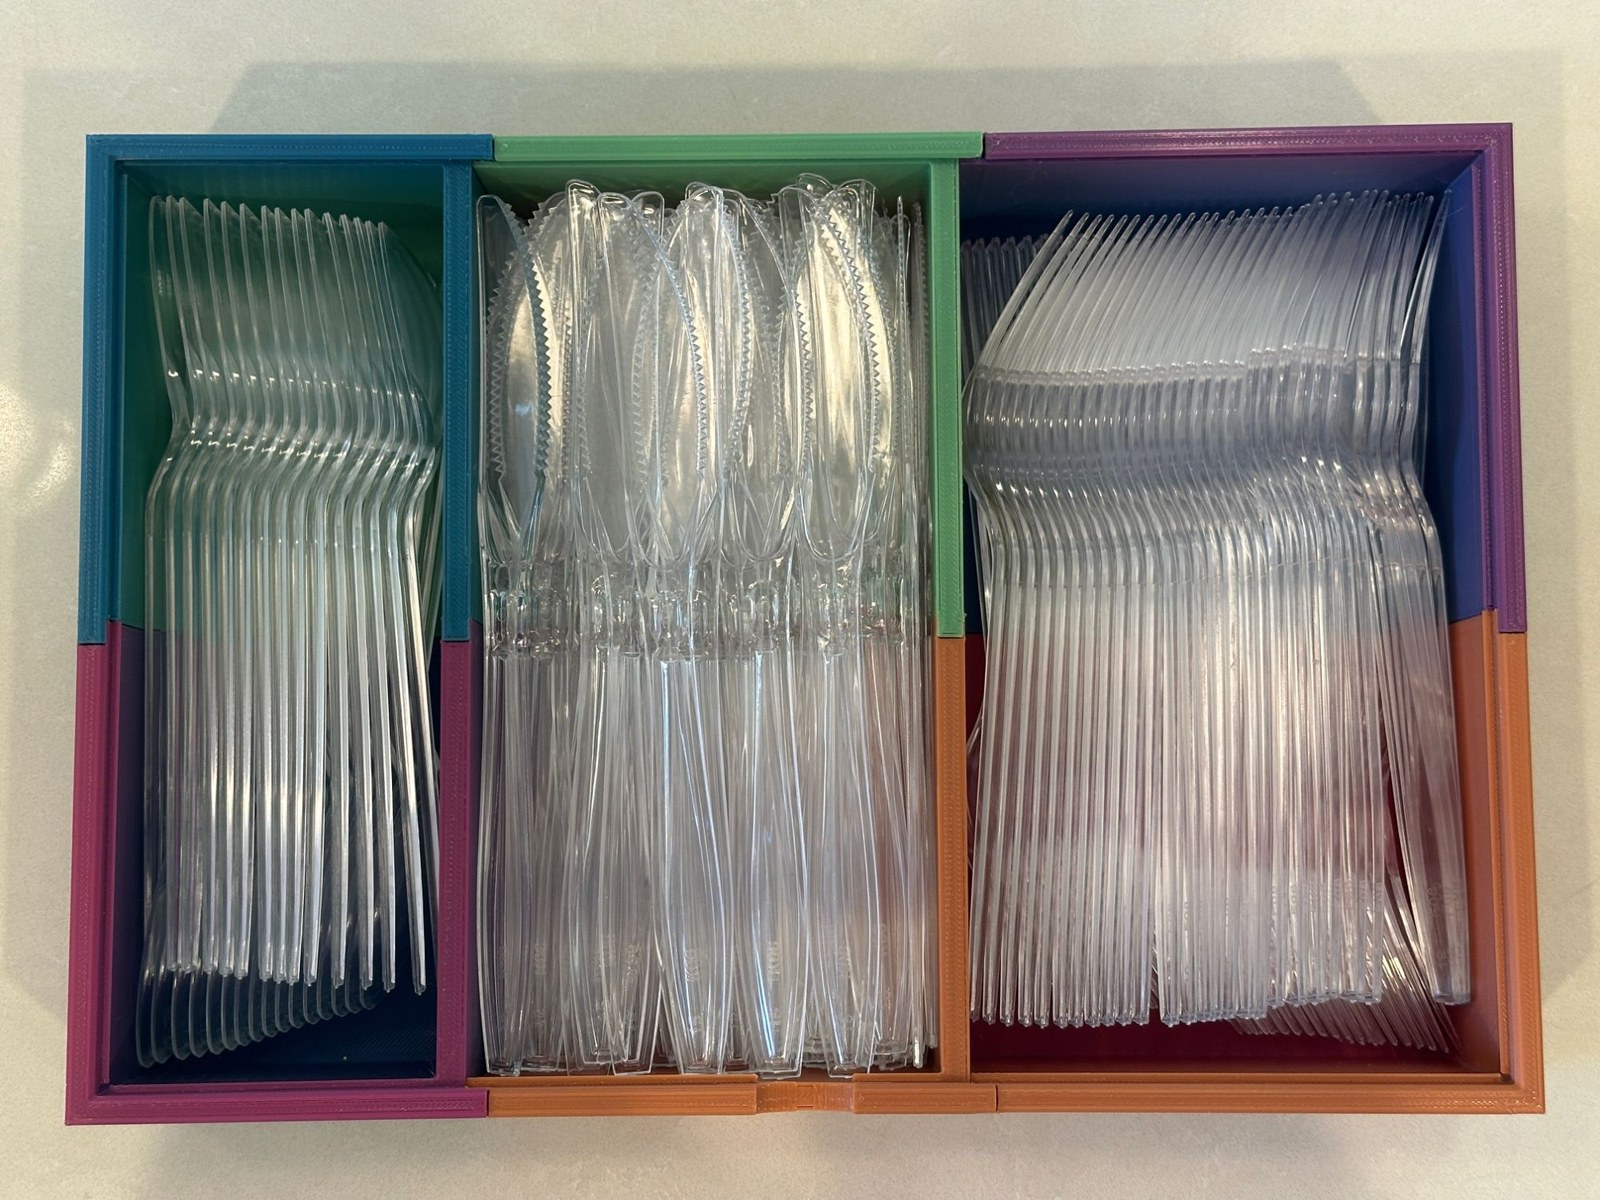
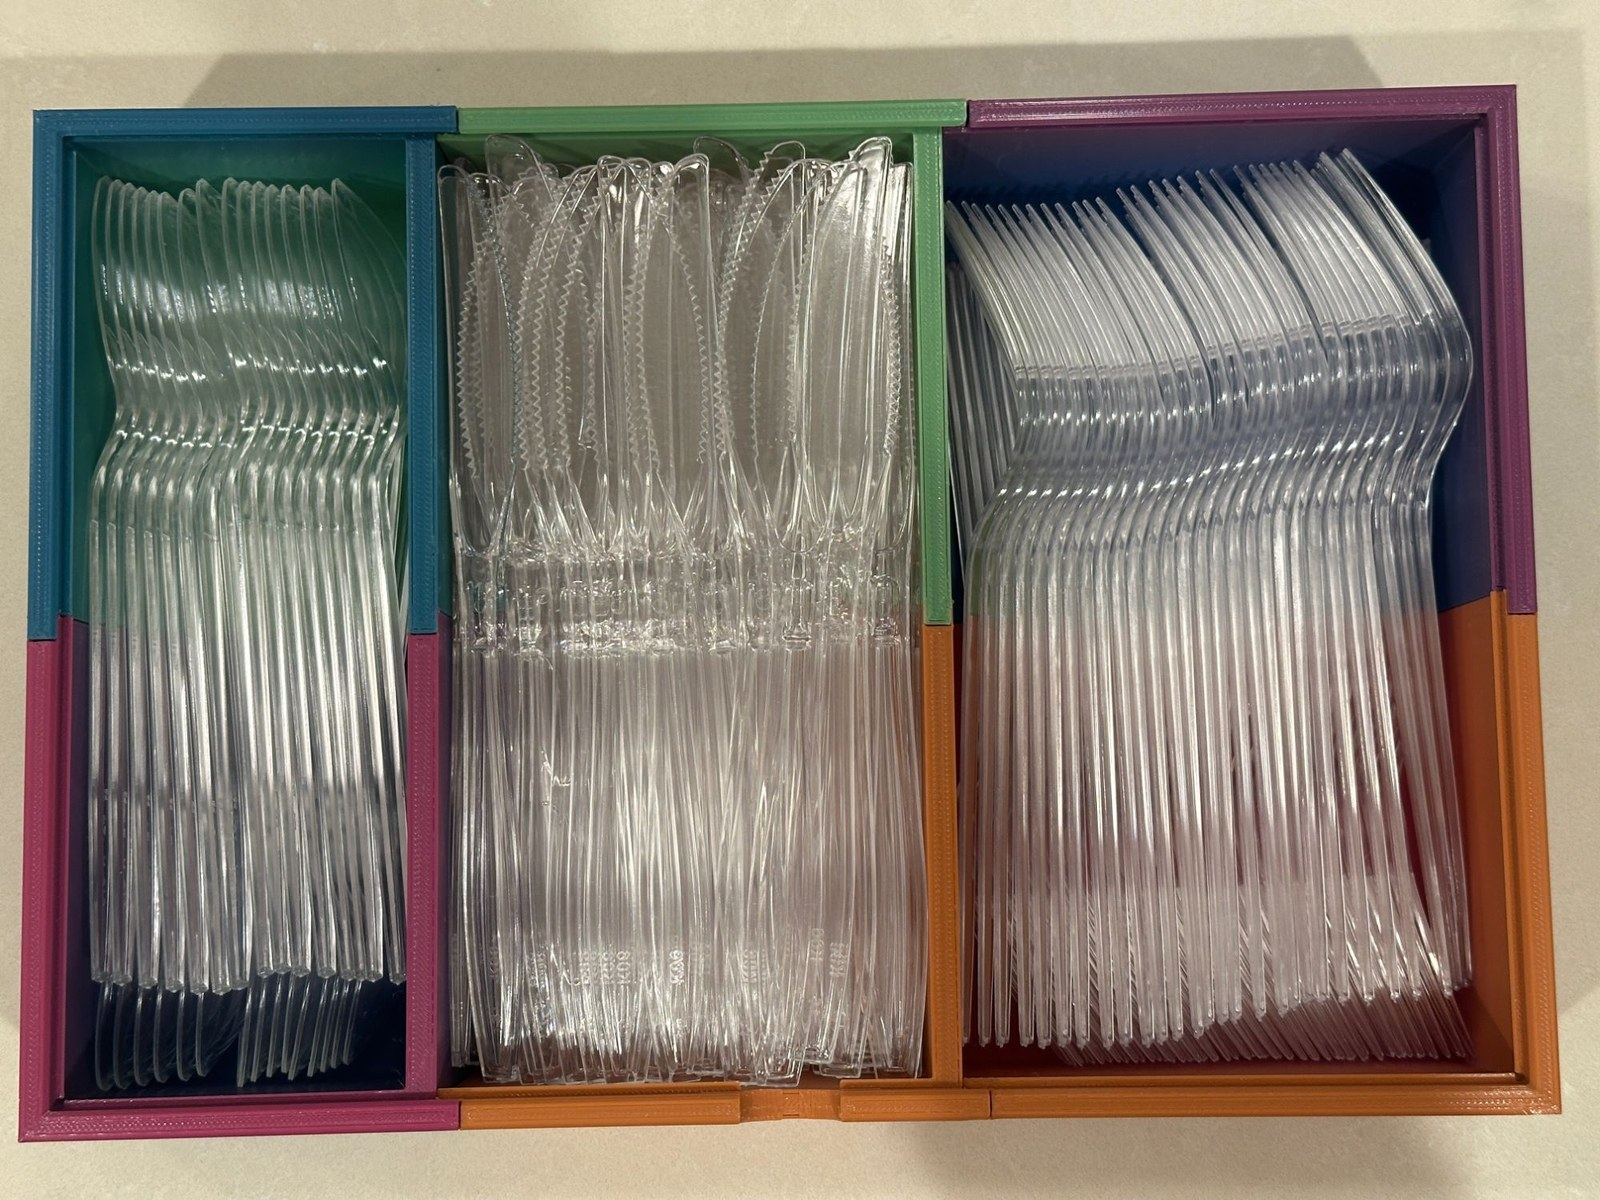
Use the retaken final-layout photo; add print settings and v25
- photos/final-layout.jpg retaken with the top rows pointing the same
  way; README hero / social preview rebuilt from it, subtitle now says
  "120 mm 3D printer".
- Build log: v25 (as he thinks), default wall thickness and infill with
  his hedge, and that 48 knives were counted but the columns were a
  pain to fill.
- CLAUDE.md: answered items removed; nozzle and row-direction questions
  added.

Claude-Session: https://claude.ai/code/session_012aPeyjSX6YEt2x8DFvdxWD

diff --git a/tools/make_social_preview.py b/tools/make_social_preview.py
@@ -42,7 +42,7 @@ def main():
     ap.add_argument('render'); ap.add_argument('photo'); ap.add_argument('out')
     ap.add_argument('--crop', type=int, nargs=4, metavar=('L', 'T', 'R', 'B'))
     ap.add_argument('--title', default='Cutlery Box')
-    ap.add_argument('--subtitle', default='Designed in OpenSCAD with Claude, printed in six pieces on a 120 mm printer')
+    ap.add_argument('--subtitle', default='Designed in OpenSCAD with Claude, printed in six pieces on a 120 mm 3D printer')
     a = ap.parse_args()
 
     bg = (255, 255, 255)

diff --git a/.claude/CLAUDE.md b/.claude/CLAUDE.md
@@ -39,9 +39,9 @@ A three-compartment box for disposable knives, forks and spoons. It was designed
 
 - **Why:** disposable cutlery comes in cardboard boxes that fall apart or plastic ones that crack into sharp pieces, and none can be washed. Organizers for real cutlery hold too few pieces and don't lock. His taped DIY dividers were flimsy and unhygienic. He never had time to design it in CAD; with Claude it was fast and fun. His brother had been looking for one too, so he printed a second.
 - **Sizing:** measured cutlery plus published sizes. A particularly long knife from another brand doesn't fit (it touches both ends); their usual brand fits.
-- **In use:** the designed layout, three face-up columns per compartment (knives narrowest, forks middle, spoons widest), held 36 spoons, 36 forks, 48 knives (120) (`photos/designed-layout.jpg`). The stacks were unstable even standing still and fell when the box was moved; knives stayed stacked only if placed with great care. He checked that three fit side by side on every printed part but never tried stacking until the box was built. An intermediate step swapped spoons and knives, still face up (`photos/finished-loaded.jpg`, no longer used in the docs but kept in `photos/` and the release zip). The final layout (`photos/final-layout.jpg`), inspired by the packaging: forks (most used) on edge in two rows in the widest, 56; spoons (least used) on edge in two rows in the narrowest, 48; knives "loosely packed" in the middle, 80 (184 total, +53%). Knives are hard to stand on edge by hand but don't tangle and are easy to grab; reaching into the narrowest compartment for them was awkward, while spoons on edge are easy to grab there. Trade-offs: columns look nicer, and rows face opposite ways (spoon heads down in one row, up in the other), so fingers can touch the bottom row's heads; they don't mind much, mostly family use it.
+- **In use:** the designed layout, three face-up columns per compartment (knives narrowest, forks middle, spoons widest), held 36 spoons, 36 forks, 48 knives (120); he counted 48 knives in the box, though filling the columns was a pain (`photos/designed-layout.jpg`). The stacks were unstable even standing still and fell when the box was moved; knives stayed stacked only if placed with great care. He checked that three fit side by side on every printed part but never tried stacking until the box was built. An intermediate step swapped spoons and knives, still face up (`photos/finished-loaded.jpg`, no longer used in the docs but kept in `photos/` and the release zip). The final layout (`photos/final-layout.jpg`, retaken with the top rows pointing the same way), inspired by the packaging: forks (most used) on edge in two rows in the widest, 56; spoons (least used) on edge in two rows in the narrowest, 48; knives "loosely packed" in the middle, 80 (184 total, +53%). Knives are hard to stand on edge by hand but don't tangle and are easy to grab; reaching into the narrowest compartment for them was awkward, while spoons on edge are easy to grab there. Trade-offs: columns look nicer, and rows face opposite ways (spoon heads down in one row, up in the other), so fingers can touch the bottom row's heads; they don't mind much, mostly family use it.
 - **First test print:** `photos/process/first-print-knives.jpg` shows the June 20 knife-compartment slice fitting only two knives, as the build log says. In November he was surprised only two fit (he was sure he'd planned three columns and wondered if his current knives are wider): that was the first print, before the resize. The final box fits three across (`photos/designed-layout.jpg`).
-- **Printing:** fine setting, 0.12 mm layers, for a more accurate chamfer. Filament: iSANMATE PLA+ Rainbow colour-change, 1.75 mm. About 6–8 h per piece, from memory. The printer is a kids' entry printer; describe its imprecision as observations, not as a fault, alongside the fact that the box came out reliable and good-looking (visitors ask where it's from).
+- **Printing:** v25, as far as he remembers (the last version). Fine setting, 0.12 mm layers, for a more accurate chamfer. Walls and infill: he thinks default 2 walls and 15%, maybe 3 and 20%; the build log says so with that hedge. Filament: iSANMATE PLA+ Rainbow colour-change, 1.75 mm. About 6–8 h per piece, from memory. The printer is a kids' entry printer; describe its imprecision as observations, not as a fault, alongside the fact that the box came out reliable and good-looking (visitors ask where it's from).
 - **Lid:** never made. Food-safe sheets he found were too expensive or not good enough, and he hasn't needed one. He wants suggestions: affordable, food-safe, good surface finish, about 196.5 × 290 × 2 mm, rounded edges. The hinge was designed as a half-round channel plus an angled opening, so the lid can swing up and also lift out (for serving).
 - **Finishing:** a Dremel removed high spots that kept pieces from seating; plastic glue makes the box rigid and stops it wobbling at rest.
 - **Next version:** try text-to-CAD tools and compare against this plain-Claude baseline (he didn't know they existed in June 2026).
@@ -54,12 +54,12 @@ Public on GitHub with description and topics set. Release [`v1.0`](https://githu
 
 Things only the owner can provide:
 - **Three-knives test photo:** he's sending one of three knives fitting side by side in a partly built box. It could go in the build log next to the "three side by side, but never stacked" lesson in Living with it.
-- **Knife count in columns:** the table says the designed columns held 48 knives, but the knife stacks kept falling. Ask whether 48 was counted in the box (with new knives, placed carefully) or is the design capacity, and fix the table note if needed.
+- **Rows facing opposite ways:** the build log says the two rows face opposite ways (spoon heads down in one, up in the other), from his note. In the retaken `photos/final-layout.jpg` every visible head is at the top. Ask whether "rows" means layers under the top one, and reword the hygiene paragraph if needed.
 - **Unfinished sentence:** his note on the trade-offs of packing on edge ended with "But there's something". Ask what he meant to add.
-- **Retake the final-layout photo:** in `photos/final-layout.jpg` the top rows of spoons and forks point in opposite directions; he'll retake it with them all pointing the same way. Then replace `photos/final-layout.jpg` (strip metadata, 1600 px) and rerun `tools/make_social_preview.py` (commands at its top) so the README hero and social preview update too.
 - **Brother's box:** a photo, if he gets one.
 - **Optional:** a Printables or MakerWorld listing to link from the README.
-- **Never answered:** nozzle; wall count and infill (he thinks default 2 walls and 15%, maybe 3 and 20%); exact print times and filament used (he can look them up); which full-height test tongue won (1 dot = standard, 2 dots = 1 mm deeper); whether the box in use is exactly v25. Leave these out of the docs unless he answers.
+- **Nozzle size:** resellers mostly list 0.4 mm for the X-MAKER JOY AI+, one lists 0.2 mm, and aoseed.com isn't reachable from the cloud sandbox. Ask him to check the printer or its manual before adding it.
+- **Never answered:** exact print times and the amount of filament used (grams; he can look them up); which full-height test tongue won (1 dot = standard, 2 dots = 1 mm deeper). Leave these out of the docs unless he answers.
 
 Repo admin:
 - **Social preview:** upload `docs/social-preview.png` in the GitHub settings (Settings → General → Social preview).

diff --git a/docs/BUILD_LOG.md b/docs/BUILD_LOG.md
@@ -147,7 +147,7 @@ The same round of prints showed that every flat base joint still trapped support
 
 ## Printing the pieces (late June)
 
-All six pieces were printed in iSANMATE PLA+ Rainbow, a colour-change filament (1.75 mm); the gradients on the box come from the filament, not from the design. I used the printer's fine setting, 0.12 mm layers, so the rim chamfer would come out more accurately. From memory, each piece took about 6–8 hours, depending on its size.
+I think all six pieces were printed from the final model, v25. They were printed in iSANMATE PLA+ Rainbow, a colour-change filament (1.75 mm); the gradients on the box come from the filament, not from the design. I used the printer's fine setting, 0.12 mm layers, so the rim chamfer would come out more accurately. I think I used the default wall thickness, 2 layers, and 15% infill (maybe 3 and 20%; I don't remember). From memory, each piece took about 6–8 hours, depending on its size.
 
 The printer is made for kids getting into 3D printing, and the prints weren't perfectly precise or repeatable: the fit varied between prints at the same settings (above), and some surfaces came out rough.
 
@@ -171,7 +171,7 @@ Even seated, the friction fit wasn't enough for a box that gets picked up and mo
 
 <p align="center"><img src="../photos/knife-too-long.jpg" alt="A longer knife touching both ends of a compartment" width="360"></p>
 
-**Columns didn't work in practice.** The box was designed for three columns per compartment, each a stack of cutlery lying face up: knives in the narrowest compartment, forks in the middle, spoons in the widest. The stacks were unstable even with the box standing still, and they fell over as soon as it was moved. I could only keep knives stacked using new ones, placed with great care; otherwise they kept falling.
+**Columns didn't work in practice.** The box was designed for three columns per compartment, each a stack of cutlery lying face up: knives in the narrowest compartment, forks in the middle, spoons in the widest. The stacks were unstable even with the box standing still, and they fell over as soon as it was moved. I could only keep knives stacked using new ones, placed with great care; otherwise they kept falling. I did count 48 knives in the columns, but filling them was a pain.
 
 I had checked on every newly printed part that three pieces fit side by side, but I never tried stacking them until the whole box was built. As soon as I had the two knife pieces, I could have tried the stacks I was planning for and seen quickly that they didn't work. Maybe that would have sent me back to the design: for example, printing dividers between the columns. But then I might never have found the packing that holds far more. It's hard to say.
 
